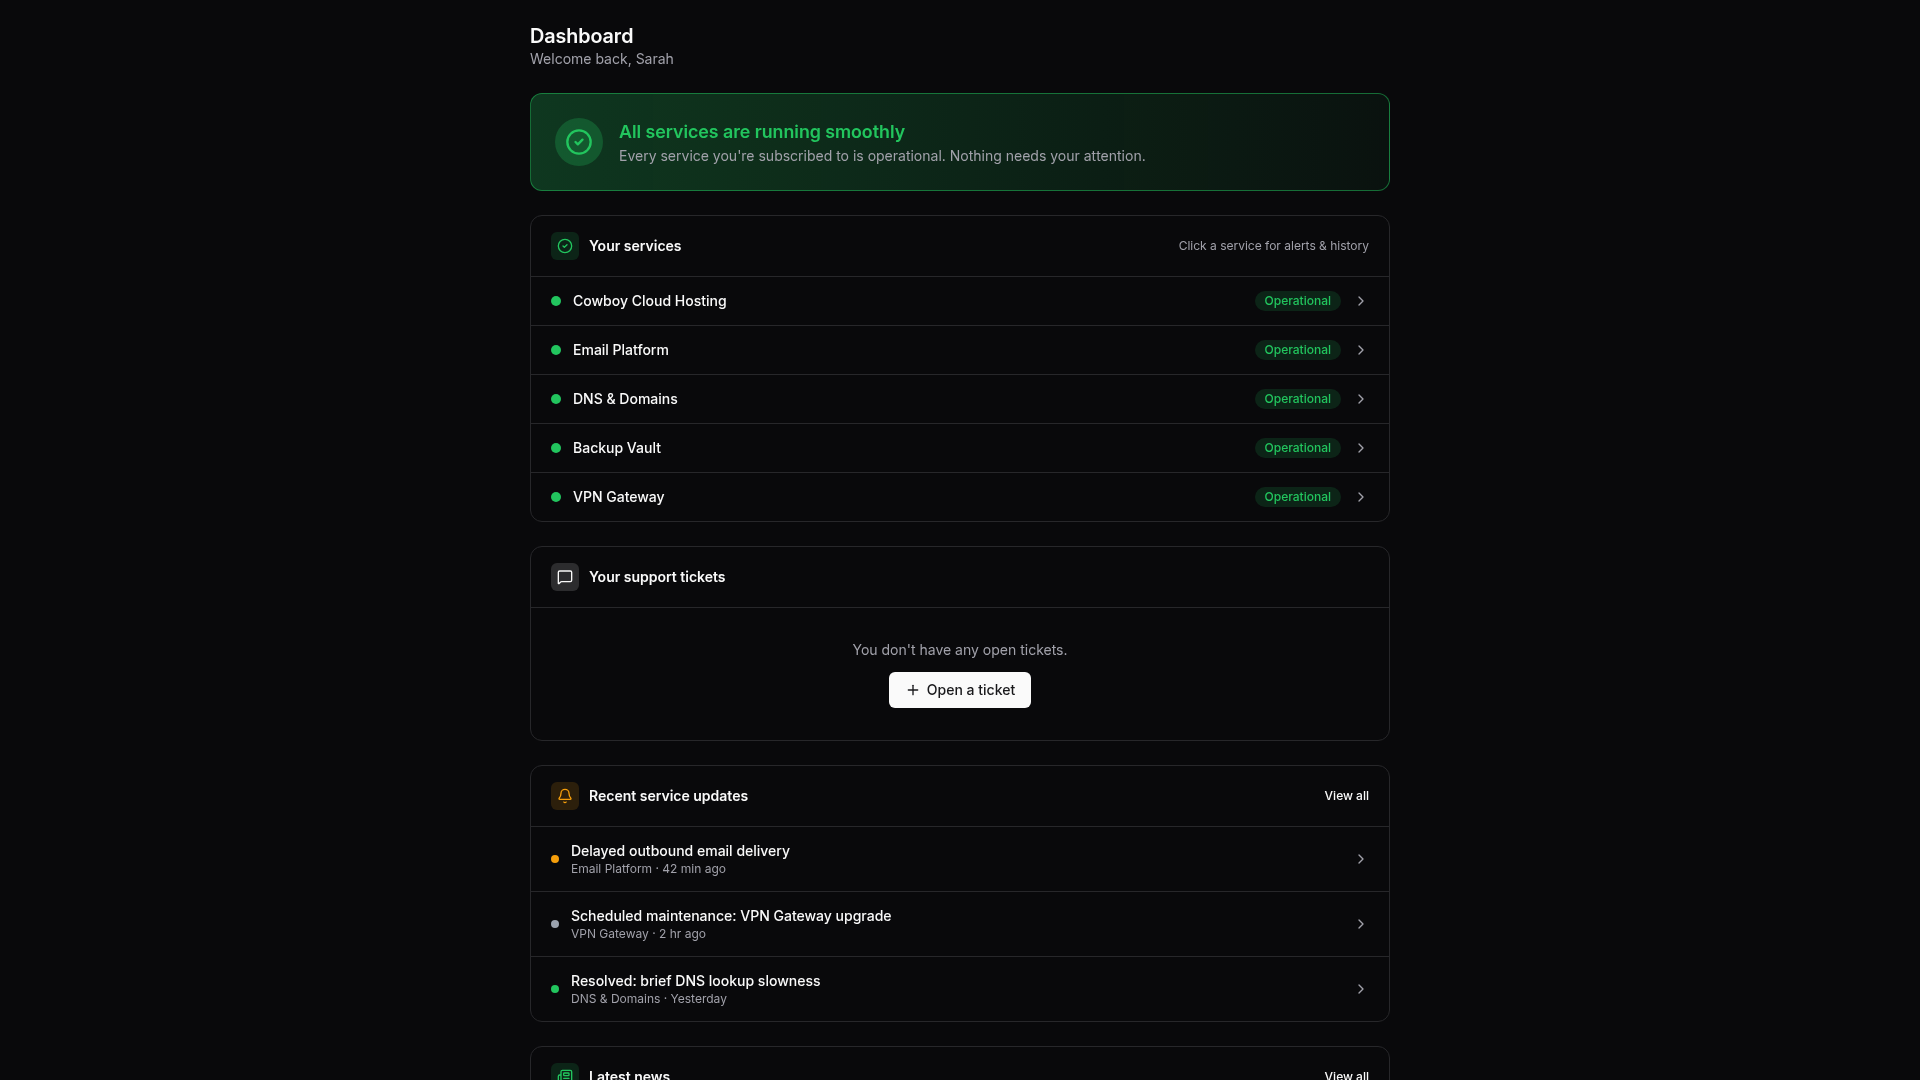
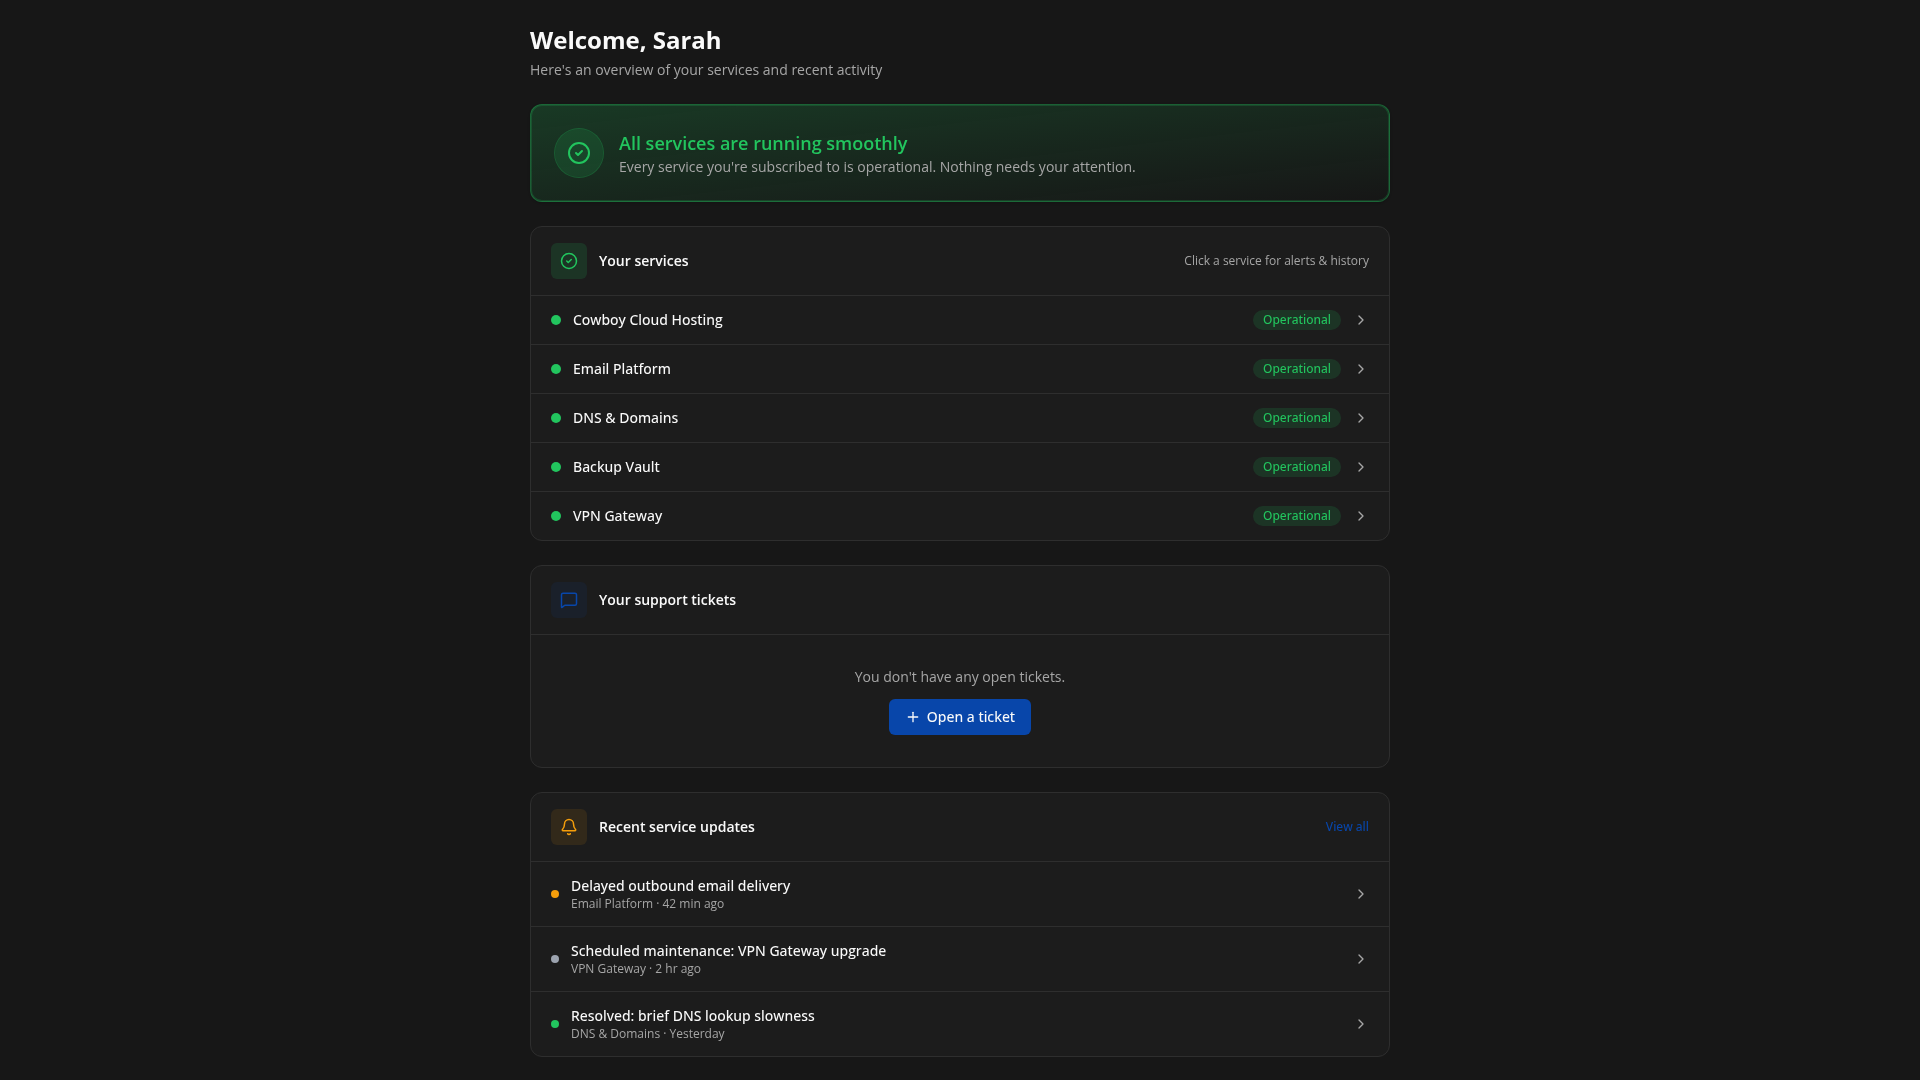
Update dashboard appearance to match the application's theme
Refactor HeroStack.tsx and index.css to synchronize sandbox theme with app design tokens, including primary color, font, and status animations.

Replit-Commit-Author: Agent
Replit-Commit-Session-Id: 031383e8-37e1-48d9-ac85-29dcf789e9ce
Replit-Commit-Checkpoint-Type: full_checkpoint
Replit-Commit-Event-Id: f24847d6-2343-4ee0-8d2b-910af8ecedd5
Replit-Commit-Screenshot-Url: https://storage.googleapis.com/screenshot-production-us-central1/ab026dec-2b21-4386-8a82-ad60aa66a512/031383e8-37e1-48d9-ac85-29dcf789e9ce/pPGdMiD
Replit-Helium-Checkpoint-Created: true

diff --git a/artifacts/mockup-sandbox/src/components/mockups/dashboard-v2/HeroStack.tsx b/artifacts/mockup-sandbox/src/components/mockups/dashboard-v2/HeroStack.tsx
@@ -59,8 +59,8 @@ const newsWithFlags = news.map((n, i) => ({ ...n, isNew: i === 0 }));
 
 function SectionIcon({ icon: Icon, tone }: { icon: typeof Bell; tone: string }) {
   return (
-    <span className={`inline-flex h-7 w-7 items-center justify-center rounded-md ${tone}`}>
-      <Icon className="h-4 w-4" />
+    <span className={`inline-flex h-9 w-9 items-center justify-center rounded-md ${tone}`}>
+      <Icon className="h-[18px] w-[18px]" />
     </span>
   );
 }
@@ -78,18 +78,18 @@ export function HeroStackPage({ allClear }: { allClear: boolean }) {
       <div className="mx-auto w-full max-w-[860px] space-y-6">
         {/* Header */}
         <div>
-          <h1 className="text-xl font-semibold leading-tight">Dashboard</h1>
-          <p className="text-sm text-muted-foreground">Welcome back, {userName}</p>
+          <h1 className="text-2xl font-bold" data-testid="text-dashboard-title">Welcome, {userName}</h1>
+          <p className="text-muted-foreground text-sm mt-1">Here's an overview of your services and recent activity</p>
         </div>
 
         {/* Hero */}
         {allClear ? (
           <div
-            className="rounded-xl border border-status-online/50 bg-gradient-to-r from-status-online/25 via-status-online/15 to-status-online/5 p-6 flex items-center gap-4"
+            className="rounded-xl border border-status-online/40 ring-1 ring-inset ring-status-online/20 bg-gradient-to-br from-status-online/20 via-status-online/10 to-transparent p-6 flex items-center gap-4 shadow-sm"
             data-testid="hero-status"
           >
-            <span className="flex h-12 w-12 shrink-0 items-center justify-center rounded-full bg-status-online/25">
-              <CheckCircle2 className="h-7 w-7 text-status-online" />
+            <span className="flex h-12 w-12 shrink-0 items-center justify-center rounded-full bg-status-online/15 ring-1 ring-status-online/30">
+              <CheckCircle2 className="h-6 w-6 text-status-online" />
             </span>
             <div>
               <p className="text-lg font-semibold text-status-online">All services are running smoothly</p>
@@ -100,11 +100,11 @@ export function HeroStackPage({ allClear }: { allClear: boolean }) {
           </div>
         ) : (
           <button
-            className="w-full rounded-xl border border-status-away/50 bg-gradient-to-r from-status-away/25 via-status-away/15 to-status-away/5 p-6 flex items-center gap-4 text-left hover:border-status-away/70"
+            className="w-full rounded-xl border border-status-away/40 ring-1 ring-inset ring-status-away/20 bg-gradient-to-br from-status-away/20 via-status-away/10 to-transparent p-6 flex items-center gap-4 text-left shadow-sm hover:ring-status-away/40 transition"
             data-testid="hero-status"
           >
-            <span className="flex h-12 w-12 shrink-0 items-center justify-center rounded-full bg-status-away/25">
-              <AlertTriangle className="h-7 w-7 text-status-away" />
+            <span className="flex h-12 w-12 shrink-0 items-center justify-center rounded-full bg-status-away/15 ring-1 ring-status-away/30">
+              <AlertTriangle className="h-6 w-6 text-status-away animate-status-pulse" />
             </span>
             <div className="min-w-0 flex-1">
               <p className="text-lg font-semibold text-status-away">We're currently experiencing an issue</p>
@@ -119,7 +119,7 @@ export function HeroStackPage({ allClear }: { allClear: boolean }) {
         {/* Services */}
         <section className="rounded-xl border border-border bg-card overflow-hidden">
           <div className="flex items-center justify-between px-5 py-4 border-b border-border">
-            <h2 className="text-sm font-semibold flex items-center gap-2.5">
+            <h2 className="text-sm font-semibold flex items-center gap-3">
               <SectionIcon icon={CheckCircle2} tone="bg-status-online/15 text-status-online" />
               Your services
             </h2>
@@ -130,8 +130,8 @@ export function HeroStackPage({ allClear }: { allClear: boolean }) {
               const meta = statusMeta[s.status];
               return (
                 <li key={s.id}>
-                  <button className="w-full flex items-center gap-3 px-5 py-3.5 text-left hover:bg-muted/50">
-                    <span className={`h-2.5 w-2.5 rounded-full ${meta.dot} shrink-0`} />
+                  <button className="w-full flex items-center gap-3 px-5 py-3.5 text-left hover:bg-accent/60 transition-colors">
+                    <span className={`h-2.5 w-2.5 rounded-full ${meta.dot} shrink-0 ${s.status !== "operational" ? "animate-status-pulse" : ""}`} />
                     <span className="flex-1 min-w-0 truncate text-sm font-medium">{s.name}</span>
                     <span className={`rounded-full px-2.5 py-0.5 text-xs font-medium ${meta.pill}`}>
                       {meta.label}
@@ -147,8 +147,8 @@ export function HeroStackPage({ allClear }: { allClear: boolean }) {
         {/* Tickets */}
         <section className="rounded-xl border border-border bg-card overflow-hidden">
           <div className="flex items-center justify-between px-5 py-4 border-b border-border">
-            <h2 className="text-sm font-semibold flex items-center gap-2.5">
-              <SectionIcon icon={MessageSquare} tone="bg-primary/15 text-primary" />
+            <h2 className="text-sm font-semibold flex items-center gap-3">
+              <SectionIcon icon={MessageSquare} tone="bg-primary/10 text-primary" />
               Your support tickets
             </h2>
             {openTickets.length > 0 && (
@@ -168,7 +168,7 @@ export function HeroStackPage({ allClear }: { allClear: boolean }) {
             <ul className="divide-y divide-border">
               {openTickets.map((t) => (
                 <li key={t.id}>
-                  <button className="w-full flex items-center gap-3 px-5 py-3.5 text-left hover:bg-muted/50">
+                  <button className="w-full flex items-center gap-3 px-5 py-3.5 text-left hover:bg-accent/60 transition-colors">
                     <div className="flex-1 min-w-0">
                       <p className="truncate text-sm font-medium">{t.subject}</p>
                       <p className="text-xs text-muted-foreground">
@@ -189,8 +189,8 @@ export function HeroStackPage({ allClear }: { allClear: boolean }) {
         {/* Service updates */}
         <section className="rounded-xl border border-border bg-card overflow-hidden">
           <div className="flex items-center justify-between px-5 py-4 border-b border-border">
-            <h2 className="text-sm font-semibold flex items-center gap-2.5">
-              <SectionIcon icon={Bell} tone="bg-status-away/15 text-status-away" />
+            <h2 className="text-sm font-semibold flex items-center gap-3">
+              <SectionIcon icon={Bell} tone="bg-status-away/10 text-status-away" />
               Recent service updates
             </h2>
             <button className="text-xs font-medium text-primary hover:underline">View all</button>
@@ -198,7 +198,7 @@ export function HeroStackPage({ allClear }: { allClear: boolean }) {
           <ul className="divide-y divide-border">
             {(allClear ? serviceUpdates.map((u) => ({ ...u, isNew: false })) : serviceUpdates).map((u) => (
               <li key={u.id}>
-                <button className="w-full flex items-center gap-3 px-5 py-3.5 text-left hover:bg-muted/50">
+                <button className="w-full flex items-center gap-3 px-5 py-3.5 text-left hover:bg-accent/60 transition-colors">
                   <span className={`h-2 w-2 rounded-full ${u.tone} shrink-0`} />
                   <div className="flex-1 min-w-0">
                     <p className="truncate text-sm font-medium flex items-center gap-2">
@@ -221,7 +221,7 @@ export function HeroStackPage({ allClear }: { allClear: boolean }) {
         {/* News */}
         <section className="rounded-xl border border-border bg-card overflow-hidden">
           <div className="flex items-center justify-between px-5 py-4 border-b border-border">
-            <h2 className="text-sm font-semibold flex items-center gap-2.5">
+            <h2 className="text-sm font-semibold flex items-center gap-3">
               <SectionIcon icon={Newspaper} tone="bg-status-online/15 text-status-online" />
               Latest news
             </h2>
@@ -230,7 +230,7 @@ export function HeroStackPage({ allClear }: { allClear: boolean }) {
           <ul className="divide-y divide-border">
             {newsWithFlags.map((n) => (
               <li key={n.id}>
-                <button className="w-full flex items-start gap-3 px-5 py-3.5 text-left hover:bg-muted/50">
+                <button className="w-full flex items-start gap-3 px-5 py-3.5 text-left hover:bg-accent/60 transition-colors">
                   <span className="mt-0.5 shrink-0 rounded-md bg-primary/15 px-1.5 py-0.5 text-[11px] font-medium text-primary">
                     {n.date}
                   </span>

diff --git a/artifacts/mockup-sandbox/src/index.css b/artifacts/mockup-sandbox/src/index.css
@@ -115,7 +115,7 @@
   --sidebar-border: 220 13% 91%;
   --sidebar-ring: 240 5.9% 10%;
 
-  --font-sans: 'Inter', sans-serif;
+  --font-sans: 'Open Sans', sans-serif;
   --font-serif: Georgia, serif;
   --font-mono: Menlo, monospace;
   --radius: .5rem;
@@ -131,30 +131,30 @@
   --elevate-1: rgba(255,255,255, .04);
   --elevate-2: rgba(255,255,255, .09);
 
-  --background: 240 10% 3.9%;
+  --background: 0 0% 9%;
   --foreground: 0 0% 98%;
-  --card: 240 10% 3.9%;
+  --card: 0 0% 11%;
   --card-foreground: 0 0% 98%;
-  --popover: 240 10% 3.9%;
+  --popover: 0 0% 15%;
   --popover-foreground: 0 0% 98%;
-  --primary: 0 0% 98%;
-  --primary-foreground: 240 5.9% 10%;
-  --secondary: 240 3.7% 15.9%;
+  --primary: 217 91% 35%;
+  --primary-foreground: 0 0% 98%;
+  --secondary: 0 0% 20%;
   --secondary-foreground: 0 0% 98%;
-  --muted: 240 3.7% 15.9%;
-  --muted-foreground: 240 5% 64.9%;
-  --accent: 240 3.7% 15.9%;
+  --muted: 217 6% 18%;
+  --muted-foreground: 0 0% 65%;
+  --accent: 217 8% 16%;
   --accent-foreground: 0 0% 98%;
-  --destructive: 0 62.8% 30.6%;
+  --destructive: 0 84% 35%;
   --destructive-foreground: 0 0% 98%;
-  --border: 240 3.7% 15.9%;
-  --input: 240 3.7% 15.9%;
-  --ring: 240 4.9% 83.9%;
-  --chart-1: 220 70% 50%;
-  --chart-2: 160 60% 45%;
-  --chart-3: 30 80% 55%;
-  --chart-4: 280 65% 60%;
-  --chart-5: 340 75% 55%;
+  --border: 0 0% 18%;
+  --input: 0 0% 30%;
+  --ring: 217 91% 50%;
+  --chart-1: 217 91% 60%;
+  --chart-2: 185 62% 55%;
+  --chart-3: 280 65% 65%;
+  --chart-4: 27 87% 60%;
+  --chart-5: 142 76% 55%;
   --sidebar: 240 5.9% 10%;
   --sidebar-foreground: 240 4.8% 95.9%;
   --sidebar-primary: 224.3 76.3% 48%;
@@ -186,4 +186,12 @@
     color: hsl(var(--muted-foreground));
     pointer-events: none;
   }
+}
+
+@keyframes status-pulse {
+  0%, 100% { opacity: 1; transform: scale(1); }
+  50% { opacity: 0.55; transform: scale(0.85); }
+}
+.animate-status-pulse {
+  animation: status-pulse 2s ease-in-out infinite;
 }
